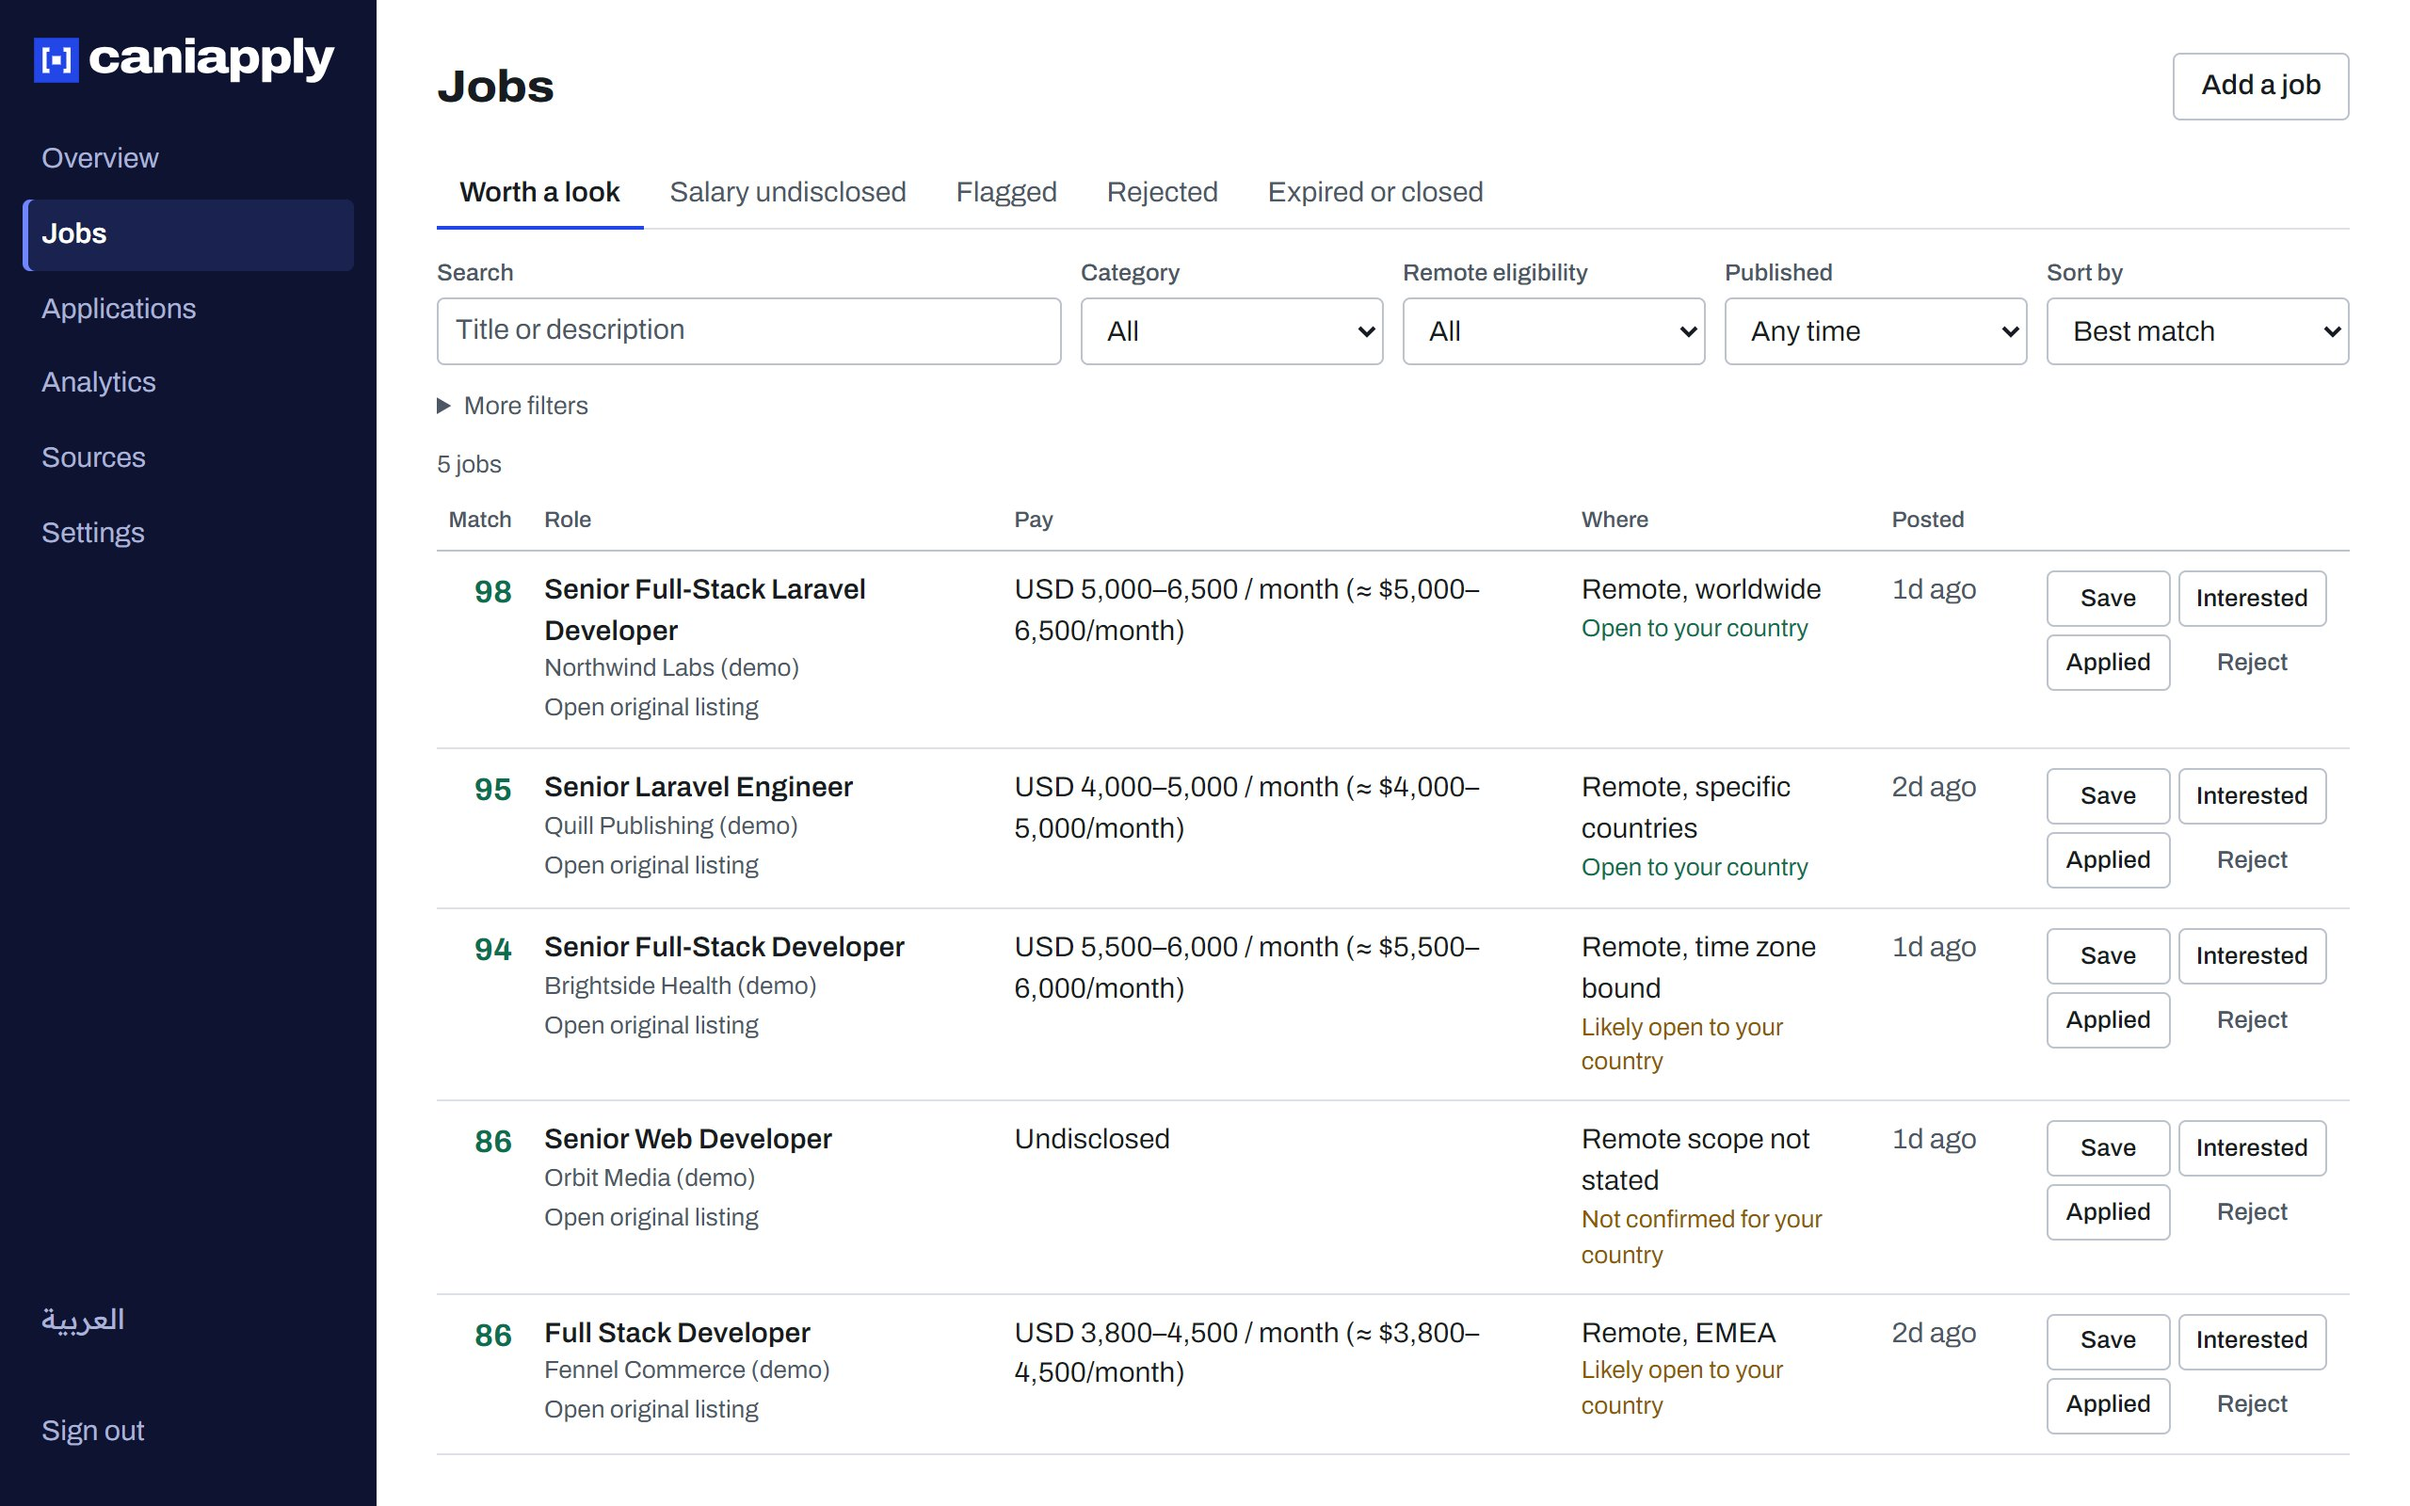
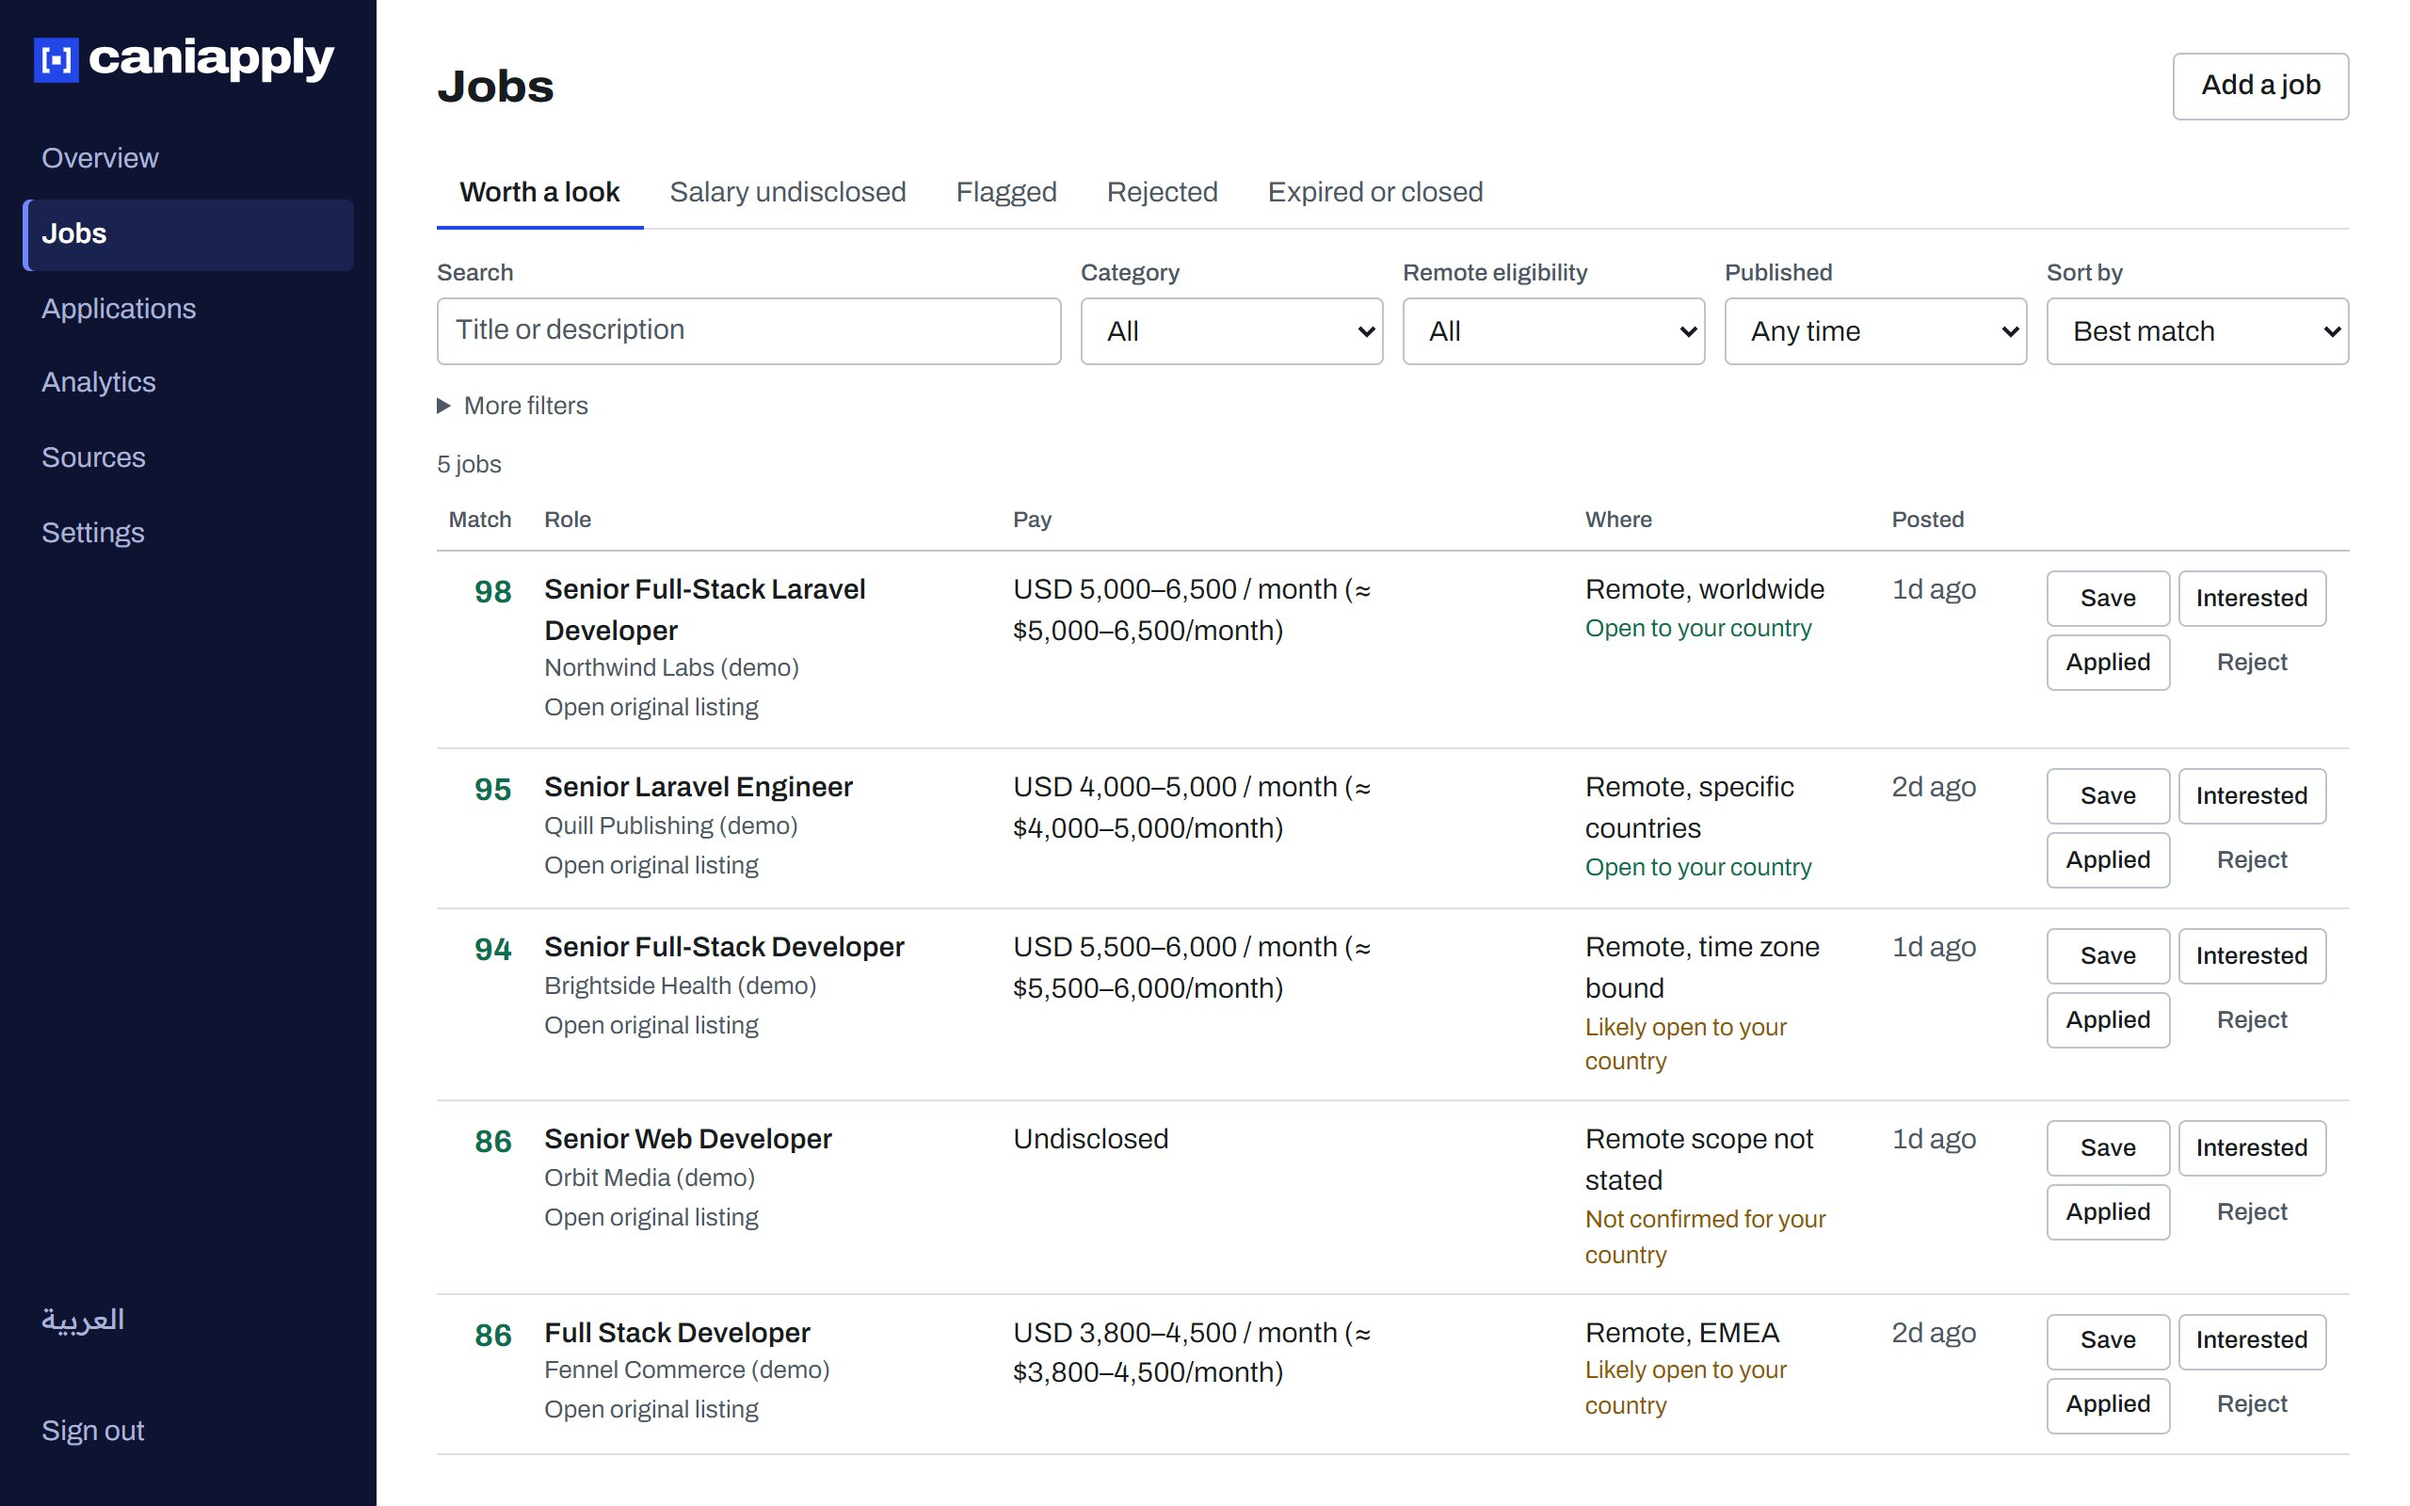
Add the Arabic job page to the README and refresh the screenshots
The screenshots are recaptured after the bidi fix, so the salary ranges
no longer break after the dash.

diff --git a/README.md b/README.md
@@ -105,6 +105,8 @@ LinkedIn, Indeed and Glassdoor are not connected, because they do not allow auto
 
 تقرأ الأداة إعلانات الوظائف عن بعد، وتخبرك هل يمكنك التقديم من بلدك فعلًا، وتعرض الجملة من الإعلان التي تثبت ذلك. الواجهة متاحة بالعربية، وتفهم الإعلانات العربية أيضًا.
 
+![The same job page in Arabic, right to left, with the quoted English sentence kept in order](docs/screenshot-arabic.jpg)
+
 ## Brand
 
 The logo, colours and type are in [`docs/brand`](docs/brand) ([brand sheet](docs/brand/brand-sheet.png)). The brackets are the scope of a job post and the square is you. The fonts, Archivo and Readex Pro, are under the SIL Open Font License (`public/fonts`).
